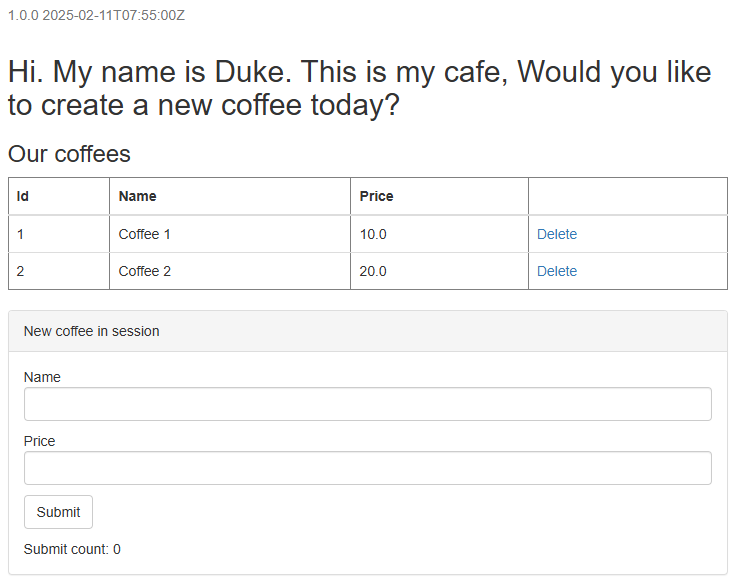
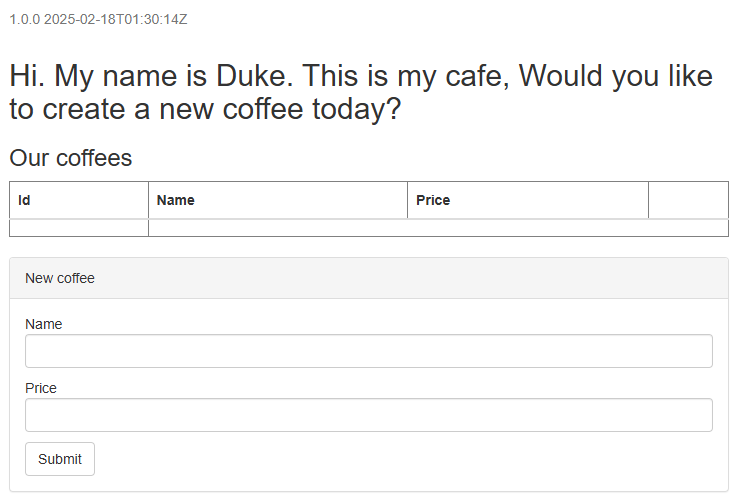
use tag 20250217 of updated sample code that persists coffee and session to redis, and update the rest of guide accordingly

diff --git a/articles/java/ee/how-to-deploy-java-liberty-jcache.md b/articles/java/ee/how-to-deploy-java-liberty-jcache.md
@@ -32,7 +32,7 @@ contact information. The team of program managers, architects, and engineers wil
 * An Azure subscription. [!INCLUDE [quickstarts-free-trial-note](../../includes/quickstarts-free-trial-note.md)]
 * Prepare a local machine with Unix-like operating system installed - for example, Ubuntu, macOS, or Windows Subsystem for Linux.
 * Install a Java Standard Edition (SE) implementation version 17 or later - for example, [Microsoft build of OpenJDK](/java/openjdk).
-* Install [Maven](https://maven.apache.org/download.cgi) 3.5.0 or higher.
+* Install [Maven](https://maven.apache.org/download.cgi) 3.9.8 or higher.
 * Ensure that [Git](https://git-scm.com) is installed.
 
 ## Create an Azure Managed Redis instance
@@ -53,29 +53,27 @@ contact information. The team of program managers, architects, and engineers wil
 
 1. After the deployment completes, select **Go to resource** if you're on the **Deoplyment** page. Otherwise, navigate to the Azure portal, find, and select your Azure Managed Redis instance.
 
-1. On the **Overview** page, note down the **Endpoint** value. You use this value as the `REDIS_CACHE_ENDPOINT` environment variable later.
+1. On the **Overview** page, note down the **Endpoint** value. You use this value in the `REDIS_CACHE_ADDRESS` environment variable later.
 
 1. Select **Settings** > **Authentication**. Select **Access keys** and note down the **Primary** value. You use this value as the `REDIS_CACHE_KEY` environment variable later.
 
-1. Run the following command to export the environment variables `REDIS_CACHE_ENDPOINT` and `REDIS_CACHE_KEY`:
+1. Run the following command to export the environment variables `REDIS_CACHE_ADDRESS` and `REDIS_CACHE_KEY`:
 
    ```bash
-   export REDIS_CACHE_ENDPOINT=<your-redis-cache-endpoint>
+   export REDIS_CACHE_ADDRESS=rediss://<your-redis-cache-endpoint>
    export REDIS_CACHE_KEY=<your-primary-access-key>
    ```
 
 ## Prepare the sample application
 
-WebSphere Liberty and Open Liberty provide a session cache feature that enables you to store HTTP session data in an external cache. 
-In this guide, you use the [JCache Session Persistence](https://openliberty.io/docs/latest/reference/feature/sessionCache-1.0.html) 
-feature to store the session data in the Azure Managed Redis instance.
+WebSphere Liberty and Open Liberty provide a session cache feature that enables you to store HTTP session data in an external cache. In this guide, you use the [JCache Session Persistence](https://openliberty.io/docs/latest/reference/feature/sessionCache-1.0.html) feature to store the session data in the Azure Managed Redis instance.
 
 Use the following commands to clone the sample code for this guide. The sample is in the [open-liberty-on-aks](https://github.com/Azure-Samples/open-liberty-on-aks) repository on GitHub. There are a few samples in the repository. This article uses *java-app-jcache*.
 
 ```bash
 git clone https://github.com/Azure-Samples/open-liberty-on-aks.git
 cd open-liberty-on-aks
-git checkout 20250212
+git checkout 20250217
 cd java-app-jcache
 ```
 
@@ -104,7 +102,7 @@ java-app-jcache/
 
 The **pom.xml** file is the Maven project file that contains the dependencies and plugins for the sample application. 
 
-The **pom-redisson.xml** file contains the dependencies for the Redisson client library, and is used to copy dependencies to the shared resources directory of the Liberty server later.
+The **pom-redisson.xml** file is used to copy dependencies for the Redisson client library to the shared resources directory of the Liberty server later.
 
 The **java**, **resources**, and **webapp** directories contain the source code of the sample application.
 
@@ -123,7 +121,7 @@ To learn more about the `liberty-maven-plugin`, see [Building a web application 
 1. Verify the current working directory is **java-app-jcache** in your local clone.
 1. Run the Maven command `mvn clean package` and package the application.
 1. Run `mvn -Predisson validate` to copy the Redisson configuration file to the correct target location. This step also inserts the values of 
-   the environment variables `REDIS_CACHE_ENDPOINT` and `REDIS_CACHE_KEY` into the **redisson-config.yaml** file, which is referenced by 
+   the environment variables `REDIS_CACHE_ADDRESS` and `REDIS_CACHE_KEY` into the **redisson-config.yaml** file, which is referenced by 
    the **server.xml** file.
 1. Run `mvn dependency:copy-dependencies -f pom-redisson.xml -DoutputDirectory=target/liberty/wlp/usr/shared/resources` to copy the Redisson 
    client library and its dependencies to the shared resources directory of the Liberty server.
@@ -143,16 +141,15 @@ Open a web browser to [http://localhost:9080](http://localhost:9080) and you sho
 
 :::image type="content" source="media/how-to-deploy-java-liberty-jcache/run-succeeded-locally.png" alt-text="Screenshot of Java liberty application running successfully.":::
 
-In the form **New coffee in session**, set values for the fields **Name** and **Price**, and then select **Submit**. After a few seconds,  
-you'll see **Submit count: 1** displayed at the left bottom of the page.
+In the form **New coffee**, set values for the fields **Name** and **Price**, and then select **Submit**. The application creates a new coffee, persists it in the Azure Managed Redis instance, and stores it in the session that is also persisted in the Azure Managed Redis instance.
 
-:::image type="content" source="media/how-to-deploy-java-liberty-jcache/new-coffee-in-session.png" alt-text="Screenshot of sample application showing new coffee created and persisted in the session of the application.":::
+After a few seconds, you'll see the new coffee displayed in the table **Our coffees**.
 
-To demonstrate that the session cache is persisted and can be retrieved in the same session, use <kbd>Ctrl</kbd>+<kbd>C</kbd> to stop the 
-application and restart it with the `mvn liberty:dev` command.
+:::image type="content" source="media/how-to-deploy-java-liberty-jcache/new-coffee-in-cache.png" alt-text="Screenshot of sample application showing new coffee created and persisted in the session of the application.":::
 
-Then, refresh the application home page. You should see the same data displayed in the section **New coffee in session**. Stop the application 
-when you're done testing.
+To demonstrate that the new coffee is persisted in the Azure Managed Redis instance and the session data can be retrieved from the same session, use <kbd>Ctrl</kbd>+<kbd>C</kbd> to stop the application and restart it with the `mvn liberty:dev` command.
+
+Then, refresh the application home page. You should see the same data displayed in the sections **Our coffees** and **New coffee**. Stop the application when you're done testing.
 
 ### Containerize the application
 
@@ -171,6 +168,8 @@ Optionally, you can containerize the application and run it in a container. The 
    ```bash
    docker run -it --rm \
       -p 9080:9080 \
+      -e REDIS_CACHE_ADDRESS=${REDIS_CACHE_ADDRESS} \
+      -e REDIS_CACHE_KEY=${REDIS_CACHE_KEY} \
       --mount type=bind,source=$(pwd)/target/liberty/wlp/usr/servers/defaultServer/redisson-config.yaml,target=/config/redisson-config.yaml \
       javaee-cafe-jcache:v1
    ```
